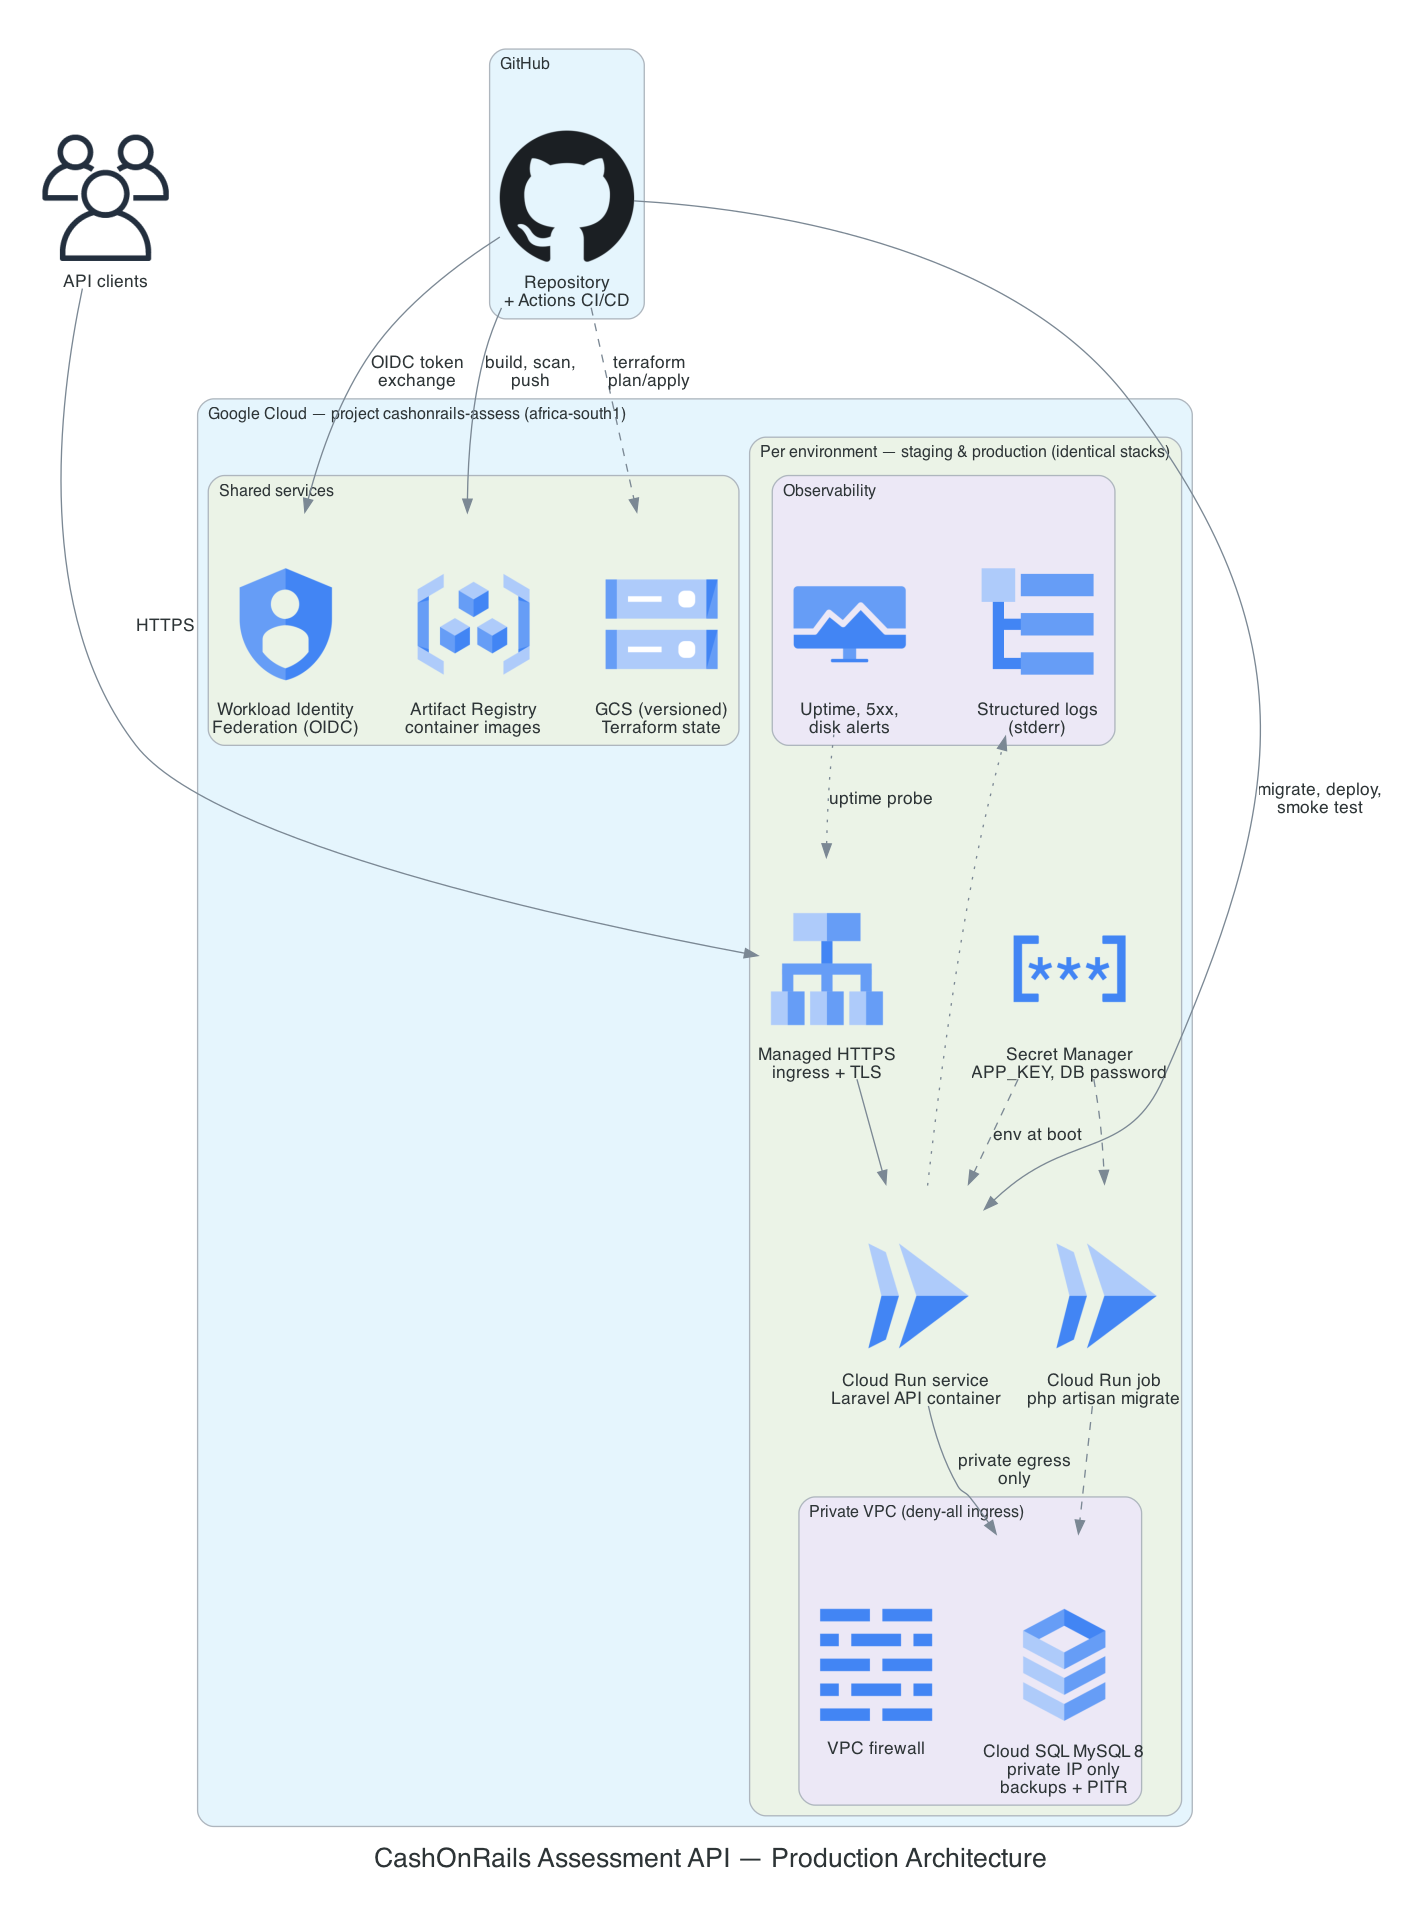
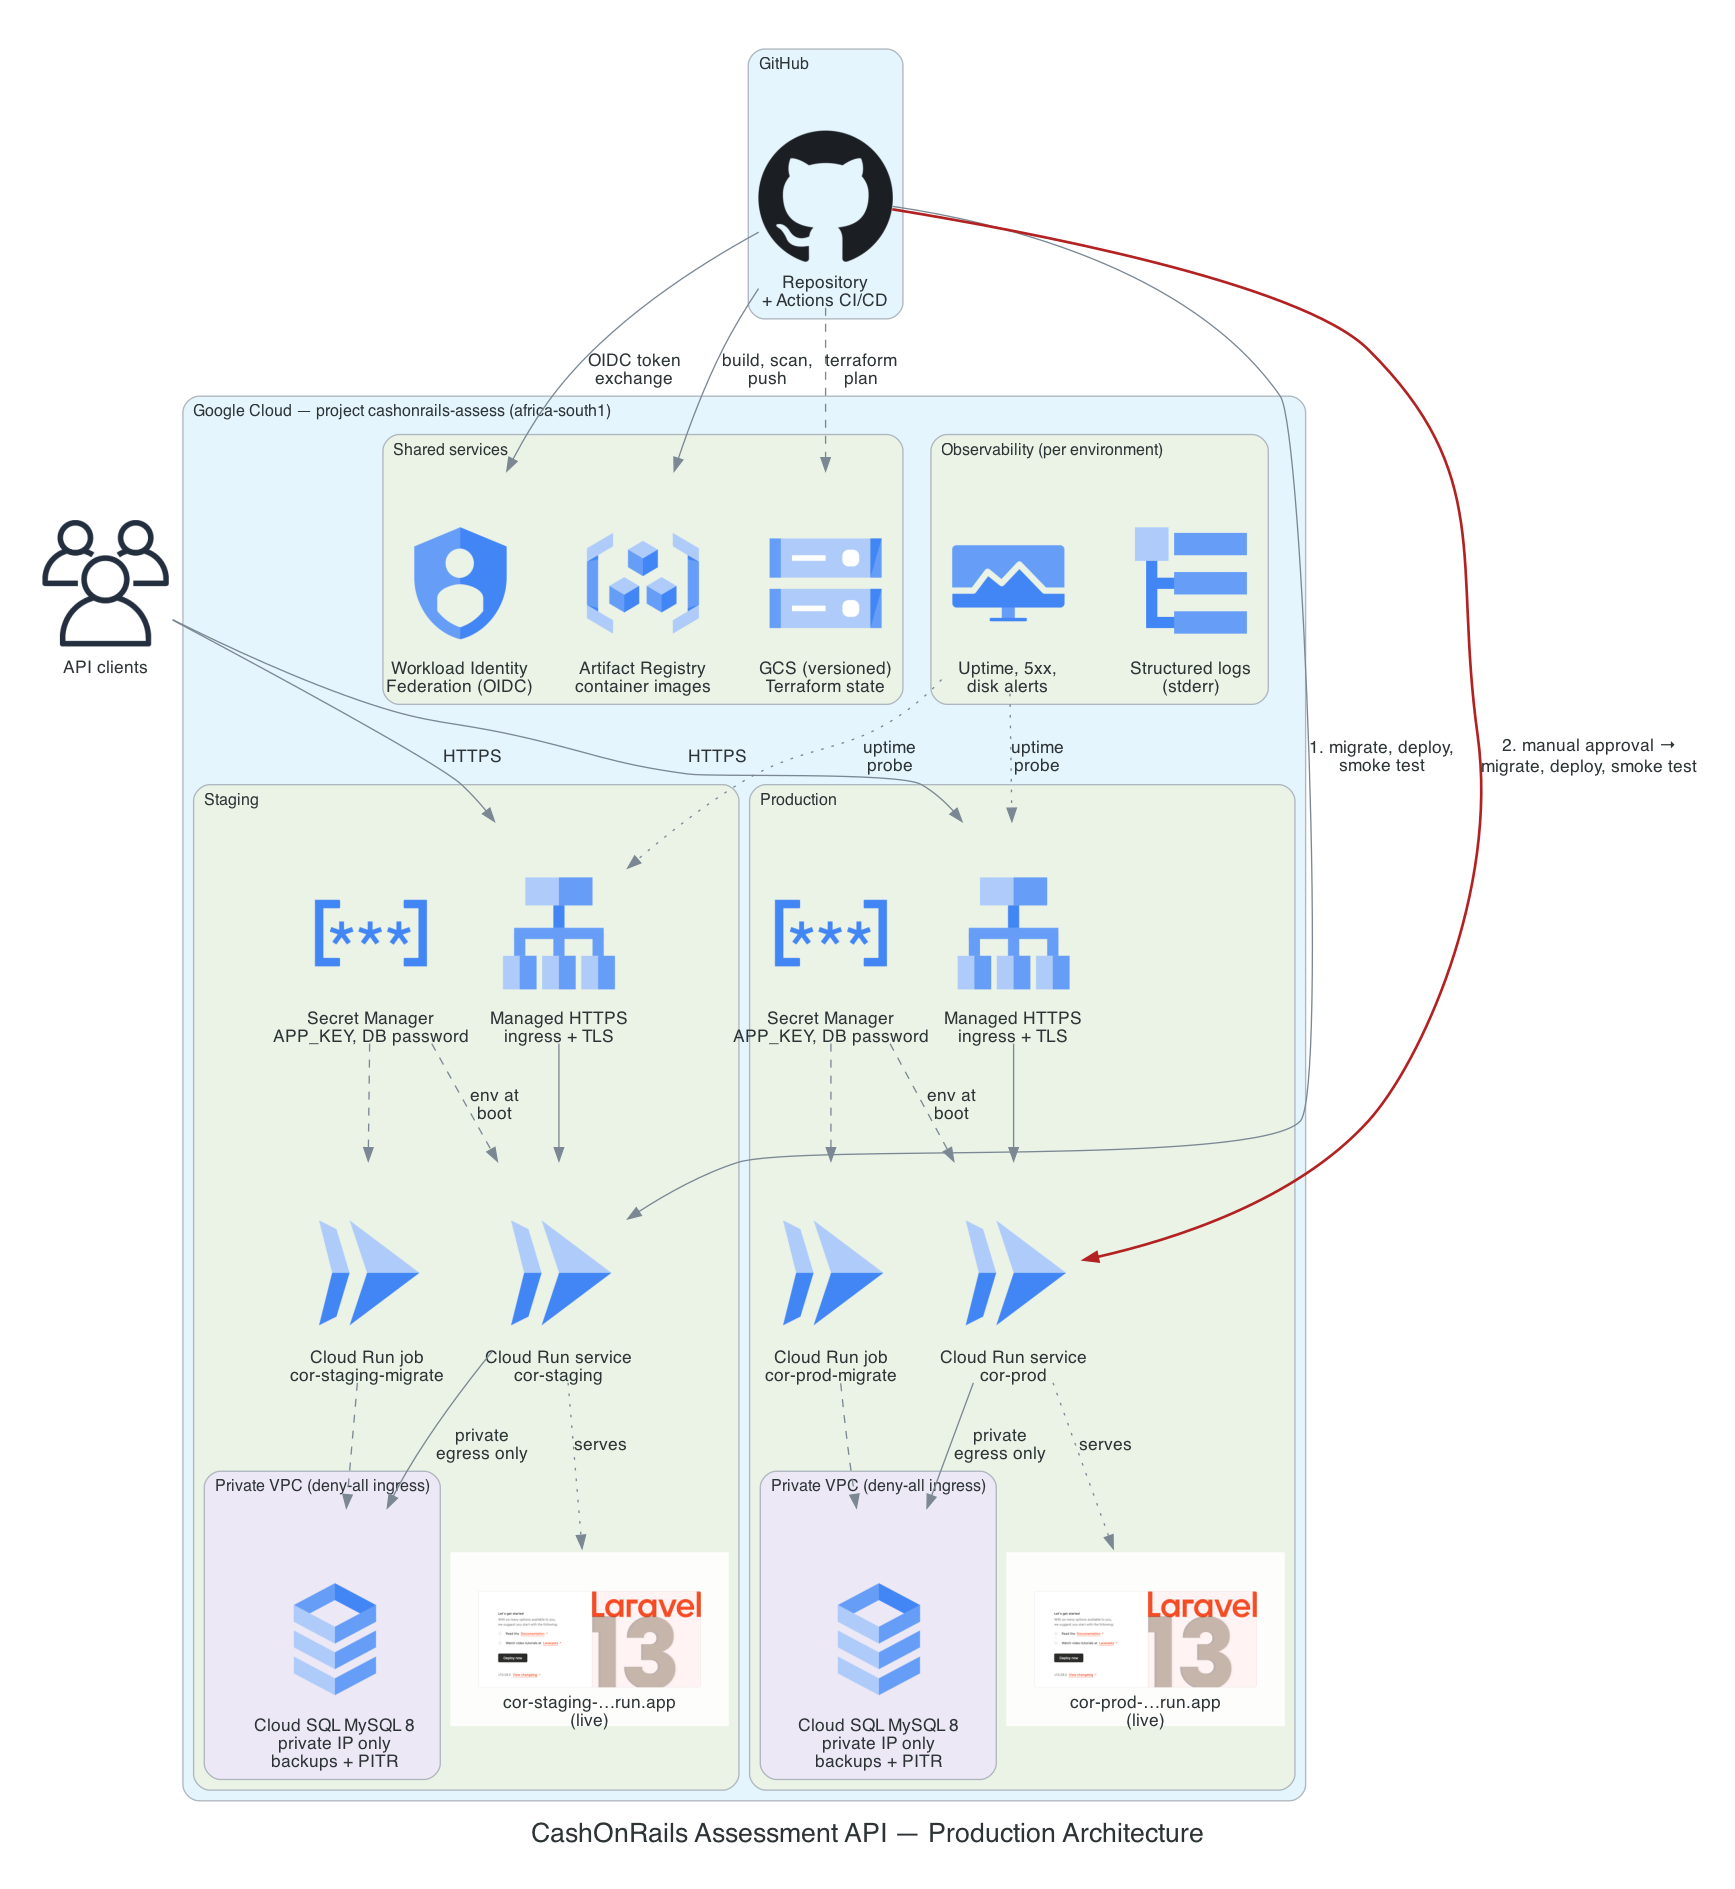
Diagram: explicit staging and production stacks with live page thumbnails
Both environments shown as identical symmetric clusters; the deploy
edges make the promotion order and the manual production approval gate
visible. Thumbnails are headless screenshots of the deployed services.

diff --git a/docs/architecture/diagram.py b/docs/architecture/diagram.py
@@ -4,16 +4,18 @@
 Regenerate with:
     pip install diagrams && brew install graphviz   # or apt-get install graphviz
     python docs/architecture/diagram.py
-Outputs docs/architecture/architecture.png
+Outputs docs/architecture/architecture.png. The app-page.png thumbnail is a
+screenshot of the deployed service's root page.
 """
 
 import os
 
 from diagrams import Cluster, Diagram, Edge
+from diagrams.custom import Custom
 from diagrams.gcp.compute import Run
 from diagrams.gcp.database import SQL
 from diagrams.gcp.devtools import ContainerRegistry
-from diagrams.gcp.network import FirewallRules, LoadBalancing
+from diagrams.gcp.network import LoadBalancing
 from diagrams.gcp.operations import Logging, Monitoring
 from diagrams.gcp.security import Iam, SecretManager
 from diagrams.gcp.storage import GCS
@@ -26,9 +28,38 @@ graph_attr = {
     "fontsize": "20",
     "pad": "0.4",
     "splines": "spline",
-    "nodesep": "0.55",
-    "ranksep": "0.9",
+    "nodesep": "0.5",
+    "ranksep": "0.85",
 }
+
+
+def environment(env_name, service_name, host):
+    """One deployed environment: ingress, service, migrate job, secrets, DB."""
+    with Cluster(env_name):
+        page = Custom(
+            f"{host}\n(live)",
+            "./app-page.png",
+            width="2.9",
+            height="1.85",
+            imagescale="true",
+        )
+        ingress = LoadBalancing("Managed HTTPS\ningress + TLS")
+        api = Run(f"Cloud Run service\n{service_name}")
+        migrate = Run(f"Cloud Run job\n{service_name}-migrate")
+        secrets = SecretManager("Secret Manager\nAPP_KEY, DB password")
+
+        with Cluster("Private VPC (deny-all ingress)"):
+            db = SQL("Cloud SQL MySQL 8\nprivate IP only\nbackups + PITR")
+
+        ingress >> api
+        api >> Edge(label="private\negress only") >> db
+        migrate >> Edge(style="dashed") >> db
+        secrets >> Edge(style="dashed", label="env at\nboot") >> api
+        secrets >> Edge(style="dashed") >> migrate
+        api >> Edge(style="dotted", label="serves") >> page
+
+    return ingress, api
+
 
 with Diagram(
     "CashOnRails Assessment API — Production Architecture",
@@ -45,39 +76,36 @@ with Diagram(
 
     with Cluster("Google Cloud — project cashonrails-assess (africa-south1)"):
         with Cluster("Shared services"):
+            wif = Iam("Workload Identity\nFederation (OIDC)")
             registry = ContainerRegistry("Artifact Registry\ncontainer images")
             state = GCS("GCS (versioned)\nTerraform state")
-            wif = Iam("Workload Identity\nFederation (OIDC)")
 
-        with Cluster("Per environment — staging & production (identical stacks)"):
-            ingress = LoadBalancing("Managed HTTPS\ningress + TLS")
-            api = Run("Cloud Run service\nLaravel API container")
-            migrate = Run("Cloud Run job\nphp artisan migrate")
-            secrets = SecretManager("Secret Manager\nAPP_KEY, DB password")
+        with Cluster("Observability (per environment)"):
+            mon = Monitoring("Uptime, 5xx,\ndisk alerts")
+            logs = Logging("Structured logs\n(stderr)")
 
-            with Cluster("Private VPC (deny-all ingress)"):
-                fw = FirewallRules("VPC firewall")
-                db = SQL("Cloud SQL MySQL 8\nprivate IP only\nbackups + PITR")
+        stg_ingress, stg_api = environment(
+            "Staging", "cor-staging", "cor-staging-…run.app"
+        )
+        prd_ingress, prd_api = environment(
+            "Production", "cor-prod", "cor-prod-…run.app"
+        )
 
-            with Cluster("Observability"):
-                mon = Monitoring("Uptime, 5xx,\ndisk alerts")
-                logs = Logging("Structured logs\n(stderr)")
+    # Client traffic
+    clients >> Edge(label="HTTPS") >> stg_ingress
+    clients >> Edge(label="HTTPS") >> prd_ingress
 
-    # Traffic path
-    clients >> Edge(label="HTTPS", minlen="2") >> ingress >> api
-    api >> Edge(label="private egress\nonly") >> db
-    migrate >> Edge(style="dashed") >> db
-
-    # Secrets at boot
-    secrets >> Edge(style="dashed", label="env at boot") >> api
-    secrets >> Edge(style="dashed") >> migrate
-
-    # CI/CD path — keyless
+    # CI/CD — keyless via OIDC; production only after the human gate
     gh >> Edge(label="OIDC token\nexchange") >> wif
     gh >> Edge(label="build, scan,\npush") >> registry
-    gh >> Edge(label="migrate, deploy,\nsmoke test") >> api
-    gh >> Edge(style="dashed", label="terraform\nplan/apply") >> state
+    gh >> Edge(style="dashed", label="terraform\nplan") >> state
+    gh >> Edge(label="1. migrate, deploy,\nsmoke test") >> stg_api
+    gh >> Edge(
+        color="firebrick",
+        style="bold",
+        label="2. manual approval →\nmigrate, deploy, smoke test",
+    ) >> prd_api
 
-    # Observability
-    mon >> Edge(style="dotted", label="uptime probe") >> ingress
-    api >> Edge(style="dotted") >> logs
+    # Monitoring probes both environments from outside
+    mon >> Edge(style="dotted", label="uptime\nprobe") >> stg_ingress
+    mon >> Edge(style="dotted", label="uptime\nprobe") >> prd_ingress
